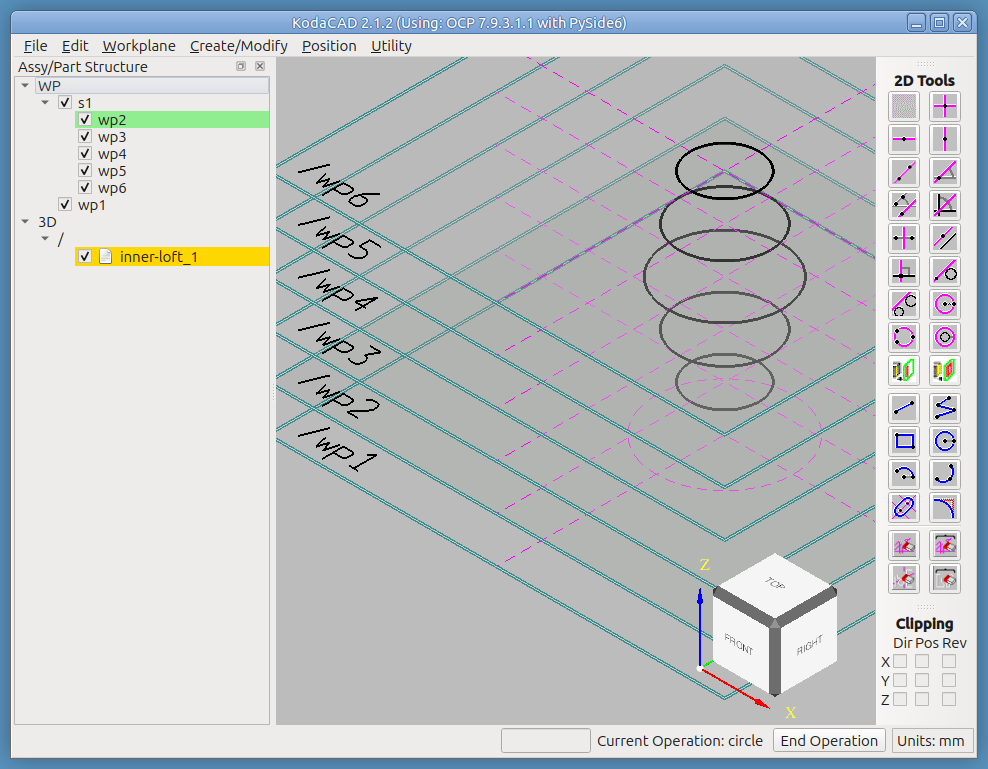
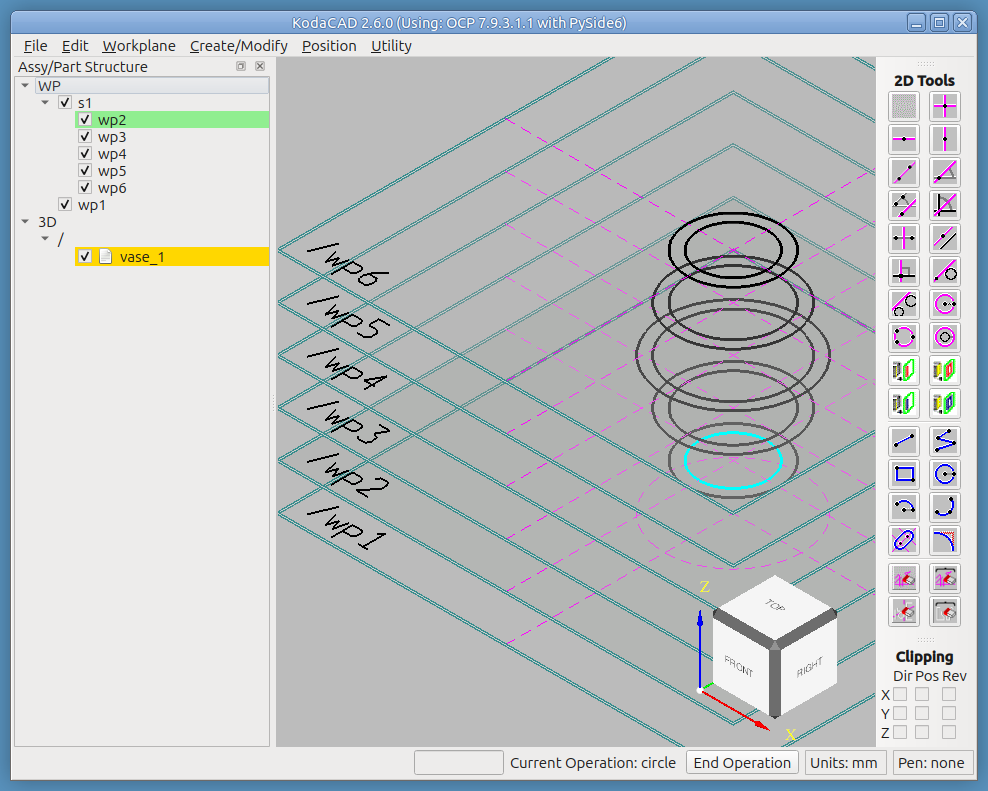
Update lofting tutorial

diff --git a/tutorials/lofting/README.md b/tutorials/lofting/README.md
@@ -8,10 +8,10 @@ the profiles, like the hull of a boat or the skin of an airplane
 fuselage. Other typical uses are an airplane wing or a turbine blade.
 
 This tutorial builds a simple lofted vase and then works it over: a
-hollow wall made by subtracting one lofted part from another, a
+hollow wall made directly by the loft (outer and inner profiles on
+each workplane), a
 transverse hole, fillets, and finally Defeaturing to take the fillets
-back off. It doubles as a regression test for the Workplane Set, Loft and
-Boolean tools.
+back off. It doubles as a regression test for the Workplane Set and Loft tools.
 
 ## What you'll need
 
@@ -23,7 +23,7 @@ Defeaturing and Other Tests steps without rebuilding the part first.
 
 Workplane creation, construction circles, **Workplane -> Set...**,
 drawing profiles on the individual workplanes of a set, Create Empty
-Part, **Loft**, **Boolean** (Subtract, with seam merging), Save Session
+Part, **Loft** with outer and inner profiles (a hollow section), Save Session
 and the Undo/Redo caveat that goes with it, **Workplane -> By 3 points**,
 **Pull** (Remove Material, Linear), Fillet, **Defeaturing** (including
 what happens to the surface seam), and afterwards Create Shared Instance
@@ -75,74 +75,54 @@ step.
 
 *Exercises: Workplane Set creation; the active workplane.*
 
-## Step 3 -- Draw the inner profiles
+(For workplanes that are not evenly spaced and parallel, see
+[Alternative -- build the set from workplanes you already have](#alternative----build-the-set-from-workplanes-you-already-have)
+at the end of this tutorial.)
 
-Draw one circular profile on each workplane of `s1`. To draw on a
-workplane, first make it active (RMB the workplane in the tree, then
-**Set Active**). Each circle is centered on the workplane's origin (where
-the horizontal and vertical construction lines cross). The radii are:
+## Step 3 -- Draw the profiles
+
+Each workplane of `s1` gets **two** concentric circles: the **outer**
+profile and an **inner** profile, which the loft turns into a hole. The
+wall will be 5 mm thick. To draw on a workplane, first make it active
+(RMB the workplane in the tree, then **Set Active**). Each circle is
+centered on the workplane's origin (where the horizontal and vertical
+construction lines cross). The radii are:
 
 | Workplane | wp2 | wp3 | wp4 | wp5 | wp6 |
 |-----------|-----|-----|-----|-----|-----|
-| Radius (mm) | 15 | 20 | 25 | 20 | 15 |
+| Outer radius (mm) | 20 | 25 | 30 | 25 | 20 |
+| Inner radius (mm) | 15 | 20 | 25 | 20 | 15 |
 
-![The five inner profiles on s1](imgs/s1-profiles.png)
+![The outer and inner profiles on s1](imgs/s1-profiles.png)
 
-*Exercises: switching the active workplane; circle profiles.*
+Every workplane must carry the **same number** of inner profiles (here,
+one). KodaCAD tells outer from inner by containment: the loop that
+encloses the others is the outer one.
 
-## Step 4 -- Loft the inner part
+*Exercises: switching the active workplane; circle profiles; outer and
+inner profiles on one workplane.*
+
+## Step 4 -- Loft the hollow part
 
 Lofting needs an empty part to receive the result. RMB the **'/'** in
-the tree and choose **Create Empty Part**. Name it `inner-loft`. (The
-tree shows it as `inner-loft_1`, as usual for a part's occurrence name.)
-It is highlighted in yellow, which means it is the **active part**.
+the tree and choose **Create Empty Part**. Name it `vase`. (The tree
+shows it as `vase_1`, as usual for a part's occurrence name.) It is
+highlighted in yellow, which means it is the **active part**.
 
 ![Create Empty Part](imgs/create-empty-inner-loft.png)
 
 With an active part, and with a workplane of the set active, click
-**Create/Modify -> Loft**. The loft passes a smooth surface through all
-five profiles.
+**Create/Modify -> Loft**. The loft passes a smooth surface through the
+five outer profiles, then lofts the five inner profiles the same way
+and cuts that inner shape out of the outer one. The result is a hollow
+vase with a 5 mm wall, open at both ends. If the cut takes a while, the
+Working box offers **Cancel** (see "Booleans can't freeze KodaCAD" in the main README).
 
-![The inner part, lofted](imgs/inner-lofted.png)
+![Select lofted](imgs/select-lofted.png)
 
-This part is a **subtractive tool**: its outer surface becomes the
-*inner* surface of the finished shape. The reason for doing it this way
-instead of using Shell is explained in Step 6.
+![Lofted part](imgs/lofted.png)
 
-*Exercises: Create Empty Part; Loft (workplane set identified by its
-active workplane).*
-
-## Step 5 -- Loft the outer part
-
-Repeat the process for the outer surface. First make **wp1** the active
-workplane again -- it is the Reference workplane for the next set -- and
-create a second set, `s2`, with **Workplane -> Set...** using the same N
-= 5 and Spacing = 20. Then draw circles whose radii are 5 mm larger than
-the inner ones:
-
-| Workplane | wp7 | wp8 | wp9 | wp10 | wp11 |
-|-----------|-----|-----|-----|------|------|
-| Radius (mm) | 20 | 25 | 30 | 25 | 20 |
-
-![The five outer profiles on s2](imgs/s2-profiles.png)
-
-Then, as before:
-
-1. Create an empty part and name it `outer-loft`. It must be active.
-2. Make sure one of the workplanes of `s2` is active.
-3. **Create/Modify -> Loft**
-
-We now have two lofted parts, superimposed.
-
-*Exercises: a second Workplane Set; Loft again with a different set.*
-
-## Step 6 -- Subtract the inner part from the outer part
-
-The next operation subtracts the inner part from the outer part,
-leaving a 5 mm wall whose outer and inner surfaces were both created by
-lofting.
-
-*Why not simply Shell the outer part with a thickness of 5 mm?* Because
+*Why not simply Shell a solid loft with a thickness of 5 mm?* Because
 later we will want to remove or modify features such as fillets using
 **Defeaturing**. In our testing, fillets and chamfers adjacent to a
 *shelled* surface cannot be removed by Defeaturing -- the operation
@@ -150,38 +130,23 @@ reports success but leaves the feature in place -- whereas the same
 fillets next to a *lofted* inner surface can. We don't know exactly why
 Shell causes this, but lofting the inner surface avoids it.
 
-With the outer part active, click **Create/Modify -> Boolean...**, which
-opens the Boolean dialog.
+*Exercises: Create Empty Part; Loft with outer and inner profiles
+(workplane set identified by its active workplane).*
 
-1. **Operation:** Subtract.
-2. **Tool part:** `inner-loft_1`.
-3. Leave **Merge Seams** checked. This heals "scar lines" that can
-   appear where the edges of the original parts land on what should be
-   one smooth, continuous face of the result.
-
-![Boolean dialog, Subtract](imgs/subtract-dialog.png)
-
-Click **✔** (Done). The tool part is consumed by the operation, so only the
-hollow `outer-loft_1` remains.
-
-![The lofted part after subtraction](imgs/subtract-done.png)
-
-*Exercises: Boolean Subtract with a part as the tool; seam merging; the
-tool part being removed from the tree.*
-
-## Step 7 -- Save the session
+## Step 5 -- Save the session
 
 Two things worth doing right now:
 
-1. **File -> Save Session.** A STEP file stores 3D geometry and the
-   assembly hierarchy very well, but it does not store workplanes.
+1. **File -> Save Session.** The `.kcad` file keeps the model *and* its
+   workplanes and workplane sets (a plain STEP file would keep only the
+   3D geometry and assembly hierarchy).
 2. If you want to look back, this is also the time to check that the
    Undo steps that built the part are available. Undo/Redo history is
    **not** saved in the file, so it is gone after a reload.
 
 **Warning:** if you click Undo all the way back to the very first
 operation, this session is toast -- you will be back to an empty
-session. Save first (step 1) before experimenting with that particular
+session. Save first (item 1 above) before experimenting with that particular
 stick of dynamite.
 
 The good news is that every remaining step can be done just as well
@@ -189,7 +154,7 @@ starting from the reloaded session file.
 
 *Exercises: Save Session; the Undo/Redo limits across a save/reload.*
 
-## Step 8 -- Punch a transverse hole
+## Step 6 -- Punch a transverse hole
 
 Back in Step 1 we drew a construction circle on wp1 and said we would use
 it. Now is the time. Make wp1 active, then click **Workplane -> By 3
@@ -231,7 +196,7 @@ above 70 clears both walls.
 *Exercises: Workplane -> By 3 points; projecting faces onto a workplane;
 Pull, Remove Material, Linear, +W (and Both).*
 
-## Step 9 -- Apply fillets
+## Step 7 -- Apply fillets
 
 Apply fillets (or chamfers) to all the sharp edges of the part: the top,
 the bottom, and both rims of the transverse hole. The wall is only 5 mm
@@ -241,7 +206,7 @@ thick, so choose a radius comfortably under that (1.5 mm, say).
 
 *Exercises: Fillet, including edges next to lofted (B-spline) surfaces.*
 
-## Step 10 -- Test Defeaturing
+## Step 8 -- Test Defeaturing
 
 Now check that the fillets can be taken back off. Open
 **Create/Modify -> Defeaturing...**, choose **Manual (pick every face)**,
@@ -250,8 +215,8 @@ click the faces of one fillet, then click **✔** (Apply). Repeat for the others
 Two things to notice:
 
 * All of the fillets should be removable, including those next to the
-  *inner* lofted surface -- which is exactly why Step 6 went to the
-  trouble of lofting it.
+  *inner* lofted surface -- which is exactly why Step 4 lofts the
+  inner surface instead of shelling.
 * If you remove several fillets together as one group, "scar lines" can
   be left on the lofted face along the circle where each fillet met it.
   Removing the fillets one at a time does not leave them. If a seam does
@@ -261,7 +226,7 @@ Two things to notice:
 *Exercises: Defeaturing (Manual); fillets next to a lofted surface; seam
 cleanup.*
 
-## Step 11 -- Other tests
+## Step 9 -- Other tests
 
 Repeat any of these on the finished lofted part:
 
@@ -279,14 +244,56 @@ independent copies.*
 
 ---
 
+## Alternative -- build the set from workplanes you already have
+
+**Workplane -> Set...** (Step 2) makes evenly spaced, parallel
+workplanes. Real shapes are rarely that regular: the deck of a bridge,
+a fuselage, a hull. For those, make each workplane where you need it --
+on a face, through three points, at an angle -- and gather them into a
+set afterwards:
+
+1. Create the workplanes **in the order the loft should pass through
+   them** (the set keeps them in creation order).
+2. In the tree, select all the workplanes you want included in the set. (Ctrl-click and Shift-click work in the standard way.)
+3. In the tree, right-click one of them and choose **Make Workplane Set**. The status bar lists the members in loft order. A workplane that was already in
+   another set is moved out of it.
+4. Draw the profiles and loft exactly as in Steps 3-4: make a workplane
+   of the set active and choose **Create/Modify -> Loft**.
+
+The workplanes need not be parallel or evenly spaced, and the profiles
+on them need not be the same size. Each workplane may carry an outer
+profile and holes (the same number of holes on every workplane), which
+is how Step 4 gets its hollow section. This is how the model of the [Linn Cove Viaduct](https://github.com/dblanding/Linn-Cove-Viaduct) deck was built: a workplane every few segments, each carrying the deck's cross-section.
+
+*Exercises: Make Workplane Set; lofting through irregular workplanes.*
+
+## Lofting onto an existing part
+
+Step 4 lofts into an **empty** part. If the active part already
+has material, the loft is **fused to it** instead. So to grow a shape
+out of an existing part:
+
+1. Put the first workplane of the set **on a face of the existing part**
+   (**Workplane -> On face**), so the
+   first profile sits on that face. Draw the profile there.
+2. Make the remaining workplanes and draw their profiles; gather them
+   into a set (either way above).
+3. Make the existing part the **active part**, make one workplane of the
+   set active, and choose **Create/Modify -> Loft**.
+
+The lofted solid starts at the face and is fused into the part: no
+second part to position, and no separate Boolean. For the
+fuse to be clean, make the first profile coincide with, or lie inside,
+the face it is on.
+
 ## Notes for whoever runs this next
 
 - If any menu label, dialog control name, or message has drifted from
   what is written here, fix it in this document directly -- catching
   that drift is exactly what this tutorial is for.
-- Fillet and chamfer radii in Step 9 are a suggestion, not a requirement;
+- Fillet and chamfer radii in Step 7 are a suggestion, not a requirement;
   anything that fits within the 5 mm wall works.
 - See the [OCC Bottle tutorial](../occ-bottle/README.md) for the Shell
-  operation, which is the road not taken in Step 6.
+  operation, which is the road not taken in Step 4.
 - See the [Jack-o'-Lantern tutorial](../jack/README.md) for more of
   Pull and the 2D sketch toolbar.

diff --git a/docs/DEVELOPMENT_LOG.md b/docs/DEVELOPMENT_LOG.md
@@ -7740,3 +7740,12 @@ Doug built the American S-20 crane and took twelve unordered notes. Agreed first
 - Tutorials: Position Selected -> Part/Asy; the Align Gizmo button -> Frame: Workplane; dialog buttons reworded. The icons differ per dialog: in Pull, Boolean and Position, **✔** is Done and **✖** is Cancel; in Defeaturing, Shell and Move Face, **✔** is Apply and **✖** is Done. Clear Selection -> Clear Picks, Merge seam faces -> Merge Seams, Total Distance -> Distance. Jack and OCC bottle Shell steps rewritten for the Shell dialog.
 - New tutorials/extract-roots/README.md. docs/MECHANISMS.md (assembly/path PARTS keys, describe(), crane_lift, video export), TODO.md (.kcad keeps workplanes), docs/TESTING_CHECKLIST.md (renamed Modify section, new 2.6.0 items), as1-oc-214 KNOWN_ISSUES.md (2.87e-5 gap; chaining tolerance 1e-4).
 - Not done: docs/UNDO-REDO.md call-site counts (low priority).
+
+### Lofting tutorial: two additions omitted from the 2.6.0 doc pass (Doug)
+- Added to tutorials/lofting/README.md (committed after the v2.6.0 tag, deliberately not retagged): (1) an alternative way to build a Workplane Set -- make the workplanes wherever they are needed, in loft order, select them in the tree and use RMB 'Make Workplane Set' (the way the Linn Cove Viaduct was done); (2) lofting into either an empty part or an existing one -- with a non-empty active part the loft is fused to it, so the first workplane can sit on a face of that part (Doug lofted from the abutment back wall).
+- Both were already supported in code and were tested by Doug (loft into an empty part and fused to an existing part both worked); only the documentation was missing.
+
+### Lofting tutorial: hollow loft replaces loft-twice-and-subtract (Doug)
+- tutorials/lofting/README.md: the loft now takes outer and inner profiles on each workplane, so the second workplane set (s2), the separate inner/outer lofted parts and the Boolean Subtract step are gone. Steps are now 1-9 (Draw the profiles, Loft the hollow part, then Save, Transverse hole, Fillets, Defeaturing, Other tests). The Shell-vs-loft rationale (fillets next to a lofted inner surface defeature cleanly) moved into Step 4. Save step now says .kcad keeps workplanes.
+- Screenshots now owed for this tutorial: s1-profiles.png (must show both circles on each workplane), inner-lofted.png (the hollow result), create-empty-inner-loft.png (name `vase`), plus the earlier pull-dialog.png; set-dialog/s1start are unchanged. Unused now: s2-profiles.png, subtract-dialog.png, subtract-done.png (git rm when convenient).
+- UNTESTED: Doug to run the tutorial through once and confirm the radii give the same wall and that loft-demo.stp still matches.
